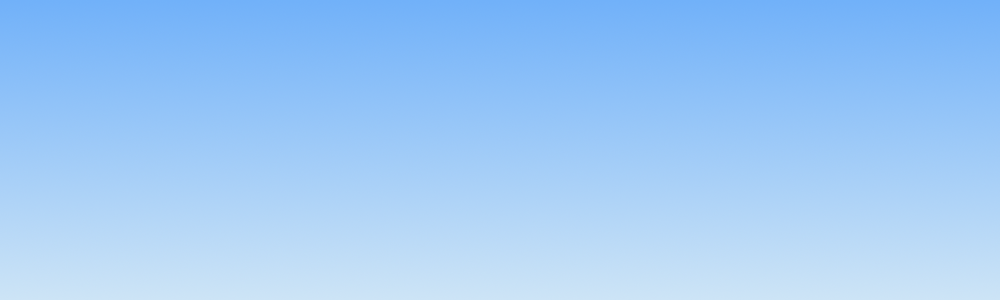
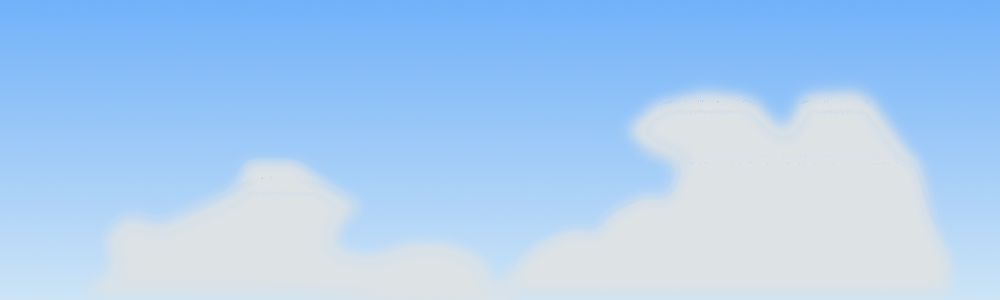
Playing around with backgrounds for beach

Changed region(s): [[0.527, 0.27, 0.961, 0.93], [0.093, 0.51, 0.465, 0.93]]

diff --git a/swervin_mervin/settings.py b/swervin_mervin/settings.py
@@ -106,7 +106,7 @@ LEVELS             = [{"id": "melbourne",
                          {"id": "sunny_sky",
                           "speed": 2,
                           "convert": True},
-                         {"id": "city",
+                         {"id": "beach",
                           "speed": 1,
                           "convert": False}
                        ]},
@@ -128,7 +128,7 @@ LEVELS             = [{"id": "melbourne",
                          {"id": "sunny_sky",
                           "speed": 2,
                           "convert": True},
-                         {"id": "city",
+                         {"id": "beach",
                           "speed": 1,
                           "convert": False}
                        ]}
